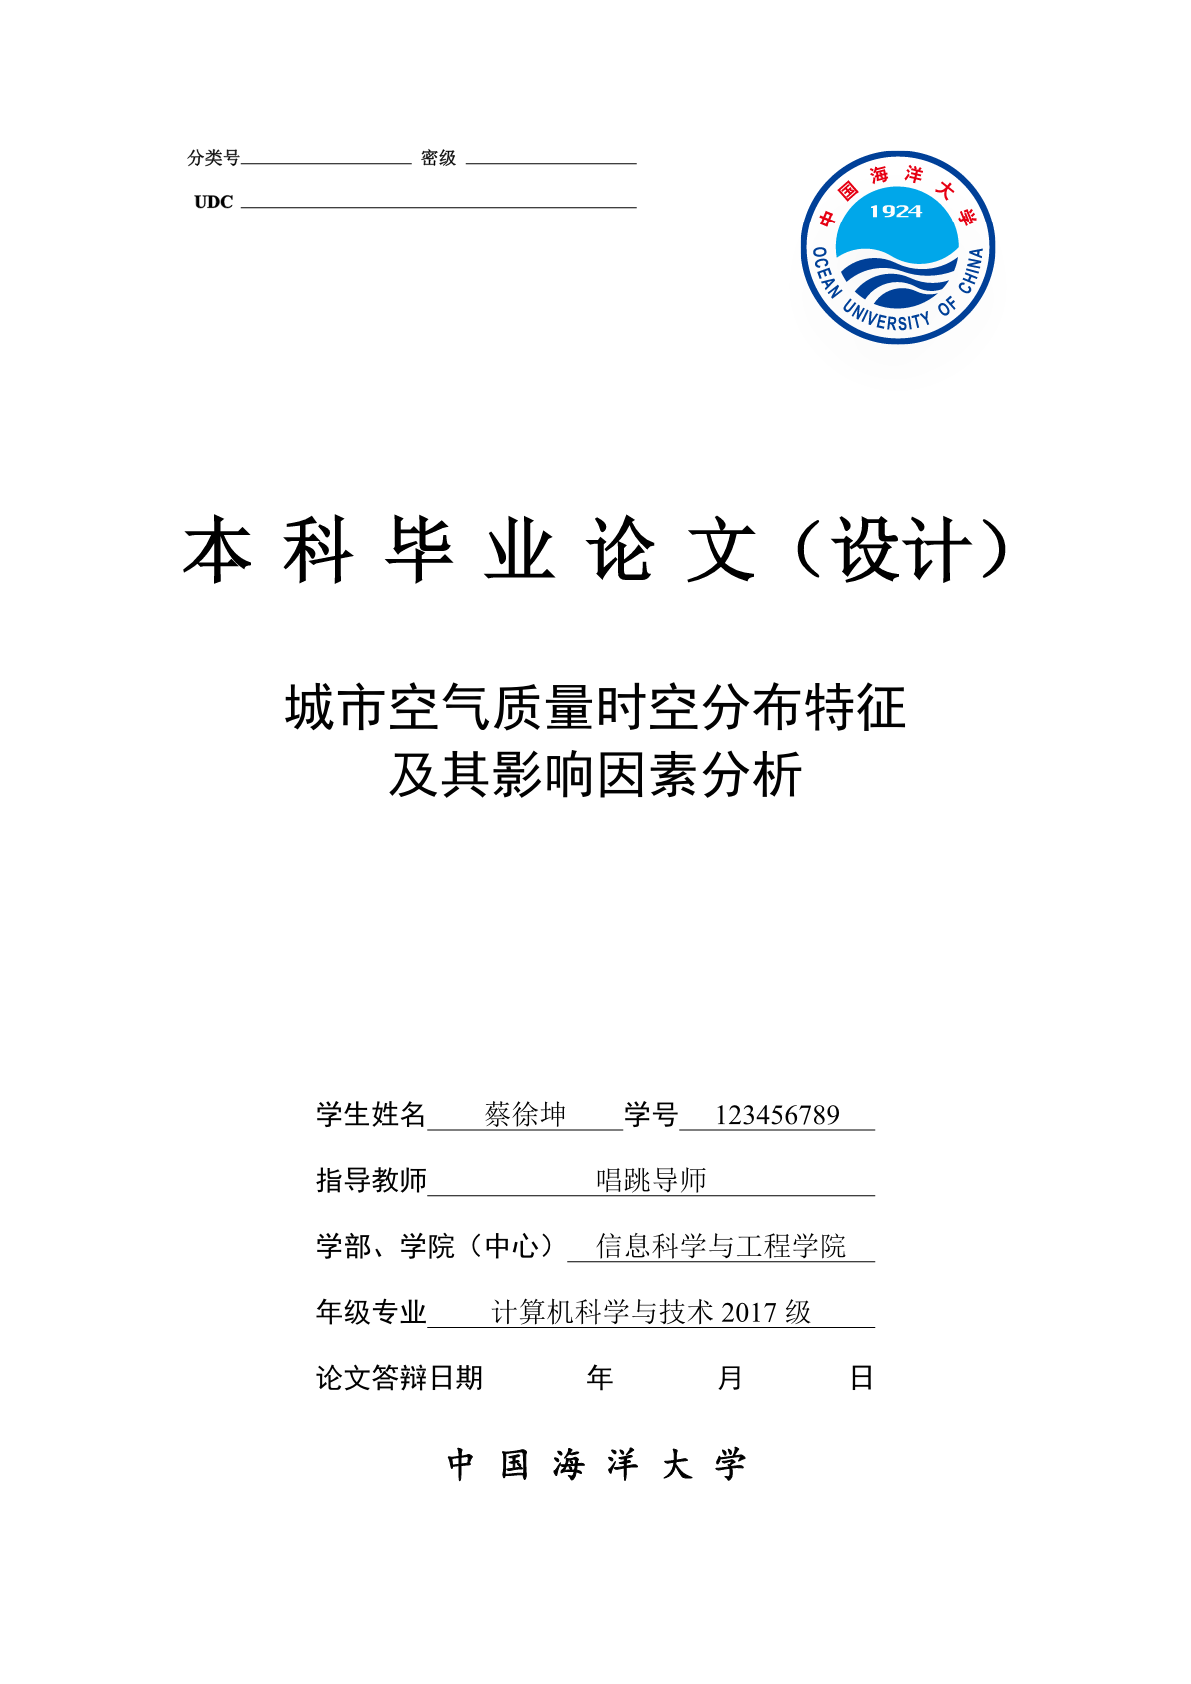
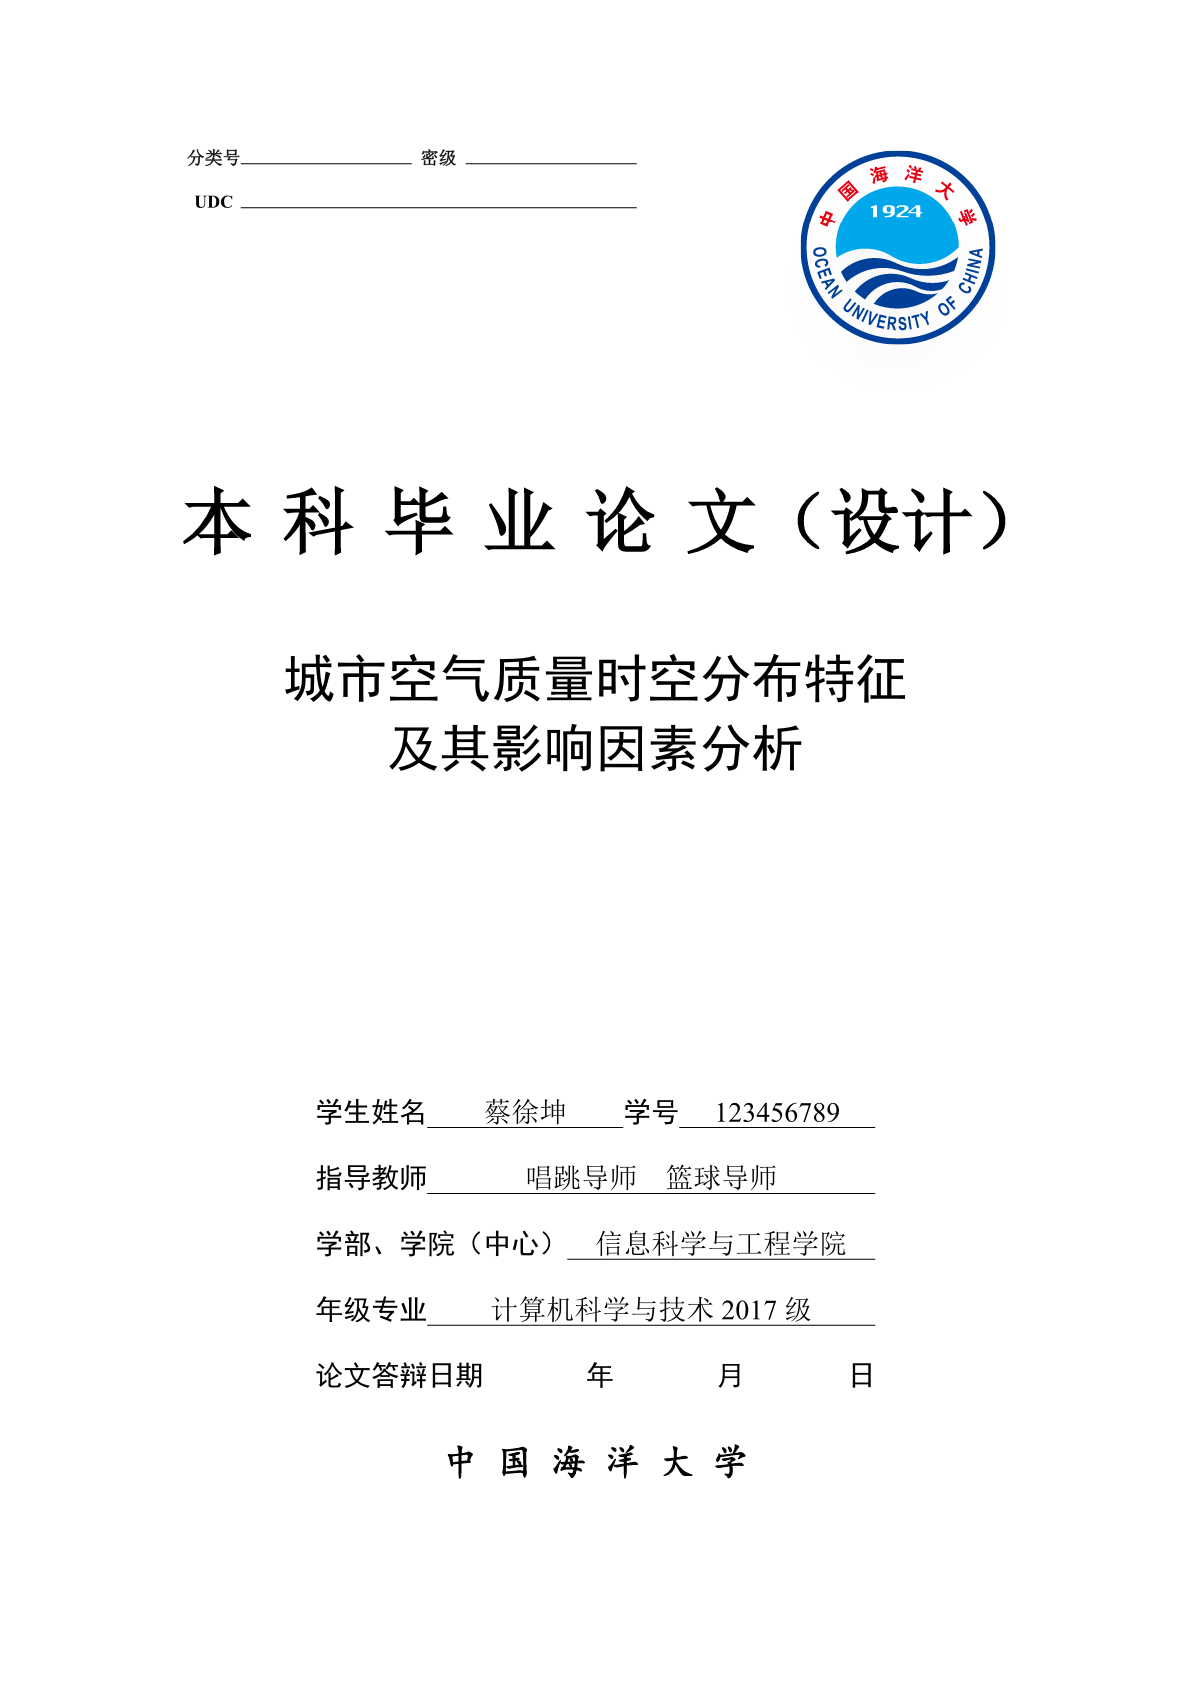
chore: update examples preview images

diff --git a/README.md b/README.md
@@ -66,7 +66,7 @@ typst init @preview/unofficial-ouc-bachelor-thesis:0.2.0
     en: "The Practice of Dance Based on Singing, Dancing, Rapping and Basketball",
   ),
   author: (name: "蔡徐坤", id: "123456789"),
-  advisor: "唱跳导师",
+  advisor: ("唱跳导师", "篮球导师"),
   college: "信息科学与工程学院",
   department: "计算机科学与技术2017级",
   abstract: (
